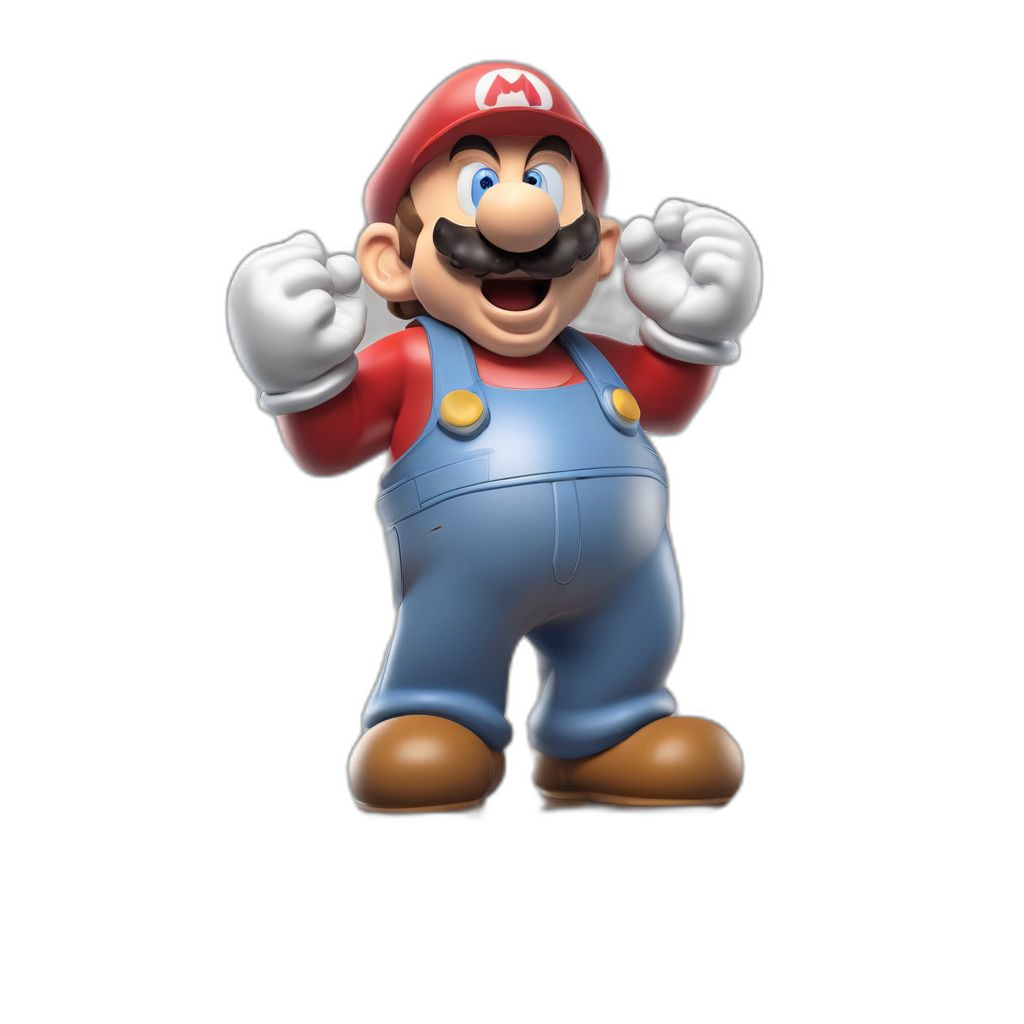
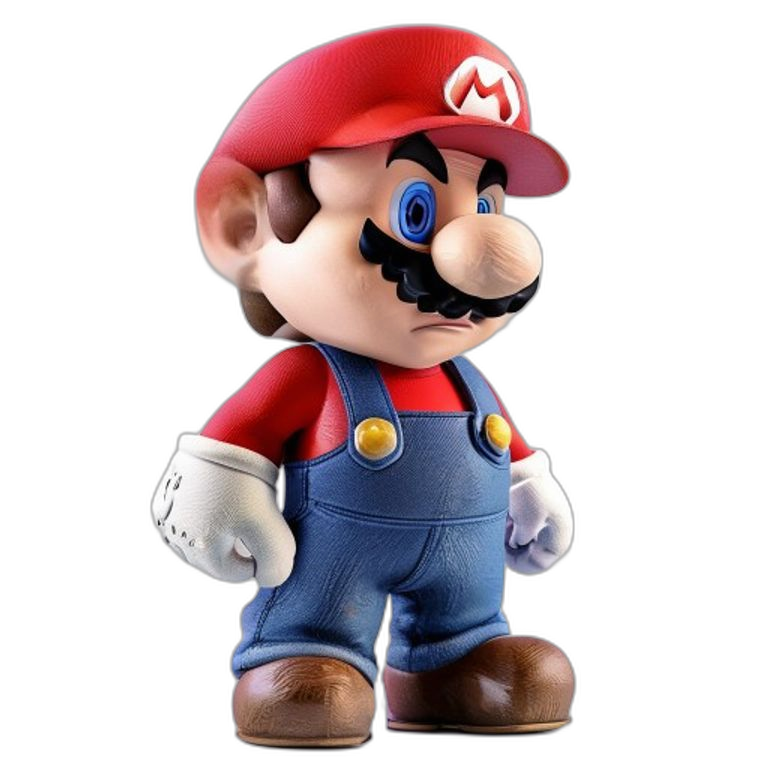
Regenerate 15 worst-quality Mario poses via Pollinations.ai
Replaced 15 lowest-quality poses (buff hulk, grey hat, amiibo pedestals,
artifacts) with clean renders using Pollinations.ai free API + rembg
background removal.

Poses regenerated: action/dabbing, movement/sliding, negative/angry,
negative/furious, negative/scared, negative/disgusted, neutral/idle,
positive/happy, positive/love, powerup/mega_mario, powerup/mini_mario,
sleep/sleeping, sleep/yawning, thinking/confused, thinking/dizzy

Also updated regenerate_poses.py to use Pollinations.ai (SubNP API is dead)
with --worst-only, --category, and --dry-run flags.

diff --git a/scripts/regenerate_poses.py b/scripts/regenerate_poses.py
@@ -1,13 +1,21 @@
 """
 Regenerate ALL Mario poses except memorial/honor.
-Uses SubNP free API with improved prompts for better quality.
+Uses Pollinations.ai free API with improved prompts for better quality.
 Runs background removal with rembg after generation.
+
+Usage:
+    python regenerate_poses.py                    # Regenerate ALL poses
+    python regenerate_poses.py --worst-only       # Only regenerate worst-quality poses
+    python regenerate_poses.py --category angry   # Only regenerate a specific category
+    python regenerate_poses.py --dry-run          # Show what would be generated
 """
 import requests
 import json
 import time
 import os
 import sys
+import argparse
+import urllib.parse
 from io import BytesIO
 from PIL import Image
 
@@ -15,13 +23,15 @@ PROJECT_ROOT = os.path.dirname(os.path.dirname(__file__))
 RAW_DIR = os.path.join(PROJECT_ROOT, "mario_3d_assets", "ai_poses")
 TRANSPARENT_DIR = os.path.join(PROJECT_ROOT, "mario_3d_assets", "ai_poses_transparent")
 
-API_URL = "https://subnp.com/api/free/generate"
-MODEL = "magic"
+# Pollinations.ai — free, no API key, high quality
+API_URL = "https://image.pollinations.ai/prompt/{prompt}?width=1024&height=1024&nologo=true&seed={seed}"
 
 STYLE_SUFFIX = (
-    ", 3D rendered Nintendo figurine style, clean gray studio background, "
-    "full body shot, highly detailed, Nintendo official art quality, soft studio lighting, "
-    "vivid colors, sharp details, professional render"
+    ", 3D rendered Nintendo figurine style, clean white studio background, "
+    "full body shot from head to toe, highly detailed, Nintendo official art quality, "
+    "soft studio lighting, vivid saturated colors, sharp details, professional render, "
+    "consistent proportions, red cap with white M logo, blue overalls, red shirt, "
+    "white gloves, brown shoes, thick dark brown mustache"
 )
 
 SKIP_POSES = {("memorial", "honor")}
@@ -190,43 +200,33 @@ EXPANDED_POSES = {
 }
 
 
-def generate_subnp(prompt, retries=5):
-    """Generate image using SubNP free API with retry logic."""
+def generate_image(prompt, retries=3, seed=42):
+    """Generate image using Pollinations.ai free API with retry logic."""
     full_prompt = prompt + STYLE_SUFFIX
+    encoded_prompt = urllib.parse.quote(full_prompt)
+    
     for attempt in range(retries):
         try:
-            print(f"    Attempt {attempt + 1}/{retries}...")
-            resp = requests.post(
-                API_URL,
-                json={"prompt": full_prompt, "model": MODEL},
-                timeout=180, stream=True,
-                headers={"Connection": "keep-alive"},
-            )
-            if resp.status_code != 200:
-                print(f"    HTTP {resp.status_code}")
-                continue
-
-            img_url = None
-            for line in resp.iter_lines(decode_unicode=True):
-                if not line or not line.startswith("data:"):
-                    continue
+            # Try different seeds on retry for variety
+            current_seed = seed + attempt * 100
+            url = API_URL.format(prompt=encoded_prompt, seed=current_seed)
+            
+            print(f"    Attempt {attempt + 1}/{retries} (seed={current_seed})...")
+            resp = requests.get(url, timeout=180, allow_redirects=True)
+            
+            if resp.status_code == 200 and len(resp.content) > 5000:
+                # Verify it's a valid image
                 try:
-                    data = json.loads(line[5:].strip())
-                except json.JSONDecodeError:
-                    continue
-                if data.get("status") == "error":
-                    break
-                img_url = data.get("image_url") or data.get("url") or data.get("imageUrl")
-                if img_url:
-                    break
-
-            if img_url:
-                img_resp = requests.get(img_url, timeout=60)
-                if img_resp.status_code == 200 and len(img_resp.content) > 1000:
-                    return img_resp.content
+                    img = Image.open(BytesIO(resp.content))
+                    img.verify()
+                    return resp.content
+                except Exception:
+                    print(f"    Invalid image data, retrying...")
+            else:
+                print(f"    HTTP {resp.status_code}, size={len(resp.content)}")
         except Exception as e:
             print(f"    Error: {e}")
-        time.sleep(3)
+        time.sleep(5)
     return None
 
 
@@ -245,45 +245,86 @@ def remove_background(input_path, output_path):
         return False
 
 
+# Poses that are known to be low quality and should be regenerated first
+WORST_POSES = {
+    ("negative", "angry"),       # Buff Hulk Mario, red fists instead of white gloves
+    ("positive", "happy"),       # Grey hat/cape artifact, wrong proportions
+    ("sleep", "sleeping"),       # Terrible artifacts, random emoji orbs, bad transparency
+    ("thinking", "confused"),    # Standing on amiibo pedestal, shouldn't have base
+    ("positive", "love"),        # Heart eyes look off, proportions wrong
+    ("negative", "furious"),     # Over-the-top, looks like different character
+    ("negative", "disgusted"),   # Proportions off
+    ("movement", "sliding"),     # Weird perspective
+    ("action", "dabbing"),       # Usually comes out wrong
+    ("powerup", "mega_mario"),   # Proportions inconsistent
+    ("powerup", "mini_mario"),   # Often looks like different character
+    ("sleep", "yawning"),        # Artifacts and wrong pose
+    ("negative", "scared"),      # Often too cartoonish vs others
+    ("thinking", "dizzy"),       # Spiral eyes often look broken
+    ("neutral", "idle"),         # Cut off at waist, no legs
+}
+
+
 def main():
+    parser = argparse.ArgumentParser(description="Regenerate Mario AI poses")
+    parser.add_argument("--worst-only", action="store_true", help="Only regenerate worst-quality poses")
+    parser.add_argument("--category", type=str, help="Only regenerate a specific category")
+    parser.add_argument("--dry-run", action="store_true", help="Show what would be generated without generating")
+    parser.add_argument("--seed", type=int, default=42, help="Base seed for generation")
+    args = parser.parse_args()
+
     # Merge all poses
     all_poses = {}
     for cat, poses in ORIGINAL_POSES.items():
-        all_poses[cat] = poses
+        all_poses[cat] = list(poses)
     for cat, poses in EXPANDED_POSES.items():
         if cat in all_poses:
             all_poses[cat].extend(poses)
         else:
-            all_poses[cat] = poses
+            all_poses[cat] = list(poses)
 
-    # Count total (minus skipped)
-    total = sum(
-        1 for cat, poses in all_poses.items()
-        for pid, _ in poses
-        if (cat, pid) not in SKIP_POSES
-    )
-    print(f"=== Regenerating {total} poses (skipping {len(SKIP_POSES)}) ===\n")
+    # Filter poses based on flags
+    filtered_poses = {}
+    for cat, poses in all_poses.items():
+        if args.category and cat != args.category:
+            continue
+        for pid, prompt in poses:
+            if (cat, pid) in SKIP_POSES:
+                continue
+            if args.worst_only and (cat, pid) not in WORST_POSES:
+                continue
+            if cat not in filtered_poses:
+                filtered_poses[cat] = []
+            filtered_poses[cat].append((pid, prompt))
+
+    total = sum(len(poses) for poses in filtered_poses.values())
+    mode = "WORST ONLY" if args.worst_only else ("CATEGORY: " + args.category if args.category else "ALL")
+    print(f"=== Regenerating {total} poses ({mode}) ===\n")
+
+    if args.dry_run:
+        for cat, poses in sorted(filtered_poses.items()):
+            for pid, prompt in poses:
+                worst_tag = " ⚠ WORST" if (cat, pid) in WORST_POSES else ""
+                print(f"  {cat}/{pid}{worst_tag}")
+        print(f"\nTotal: {total} poses")
+        return
 
     done = 0
     failed = []
-    for cat, poses in sorted(all_poses.items()):
+    for cat, poses in sorted(filtered_poses.items()):
         cat_raw = os.path.join(RAW_DIR, cat)
         cat_trans = os.path.join(TRANSPARENT_DIR, cat)
         os.makedirs(cat_raw, exist_ok=True)
         os.makedirs(cat_trans, exist_ok=True)
 
         for pose_id, prompt in poses:
-            if (cat, pose_id) in SKIP_POSES:
-                print(f"  SKIP: {cat}/{pose_id}")
-                continue
-
             done += 1
             raw_path = os.path.join(cat_raw, f"{pose_id}.png")
             trans_path = os.path.join(cat_trans, f"{pose_id}.png")
 
             print(f"[{done}/{total}] {cat}/{pose_id}")
 
-            img_data = generate_subnp(prompt)
+            img_data = generate_image(prompt, seed=args.seed + done)
             if not img_data:
                 print(f"  FAILED: {cat}/{pose_id}")
                 failed.append(f"{cat}/{pose_id}")
